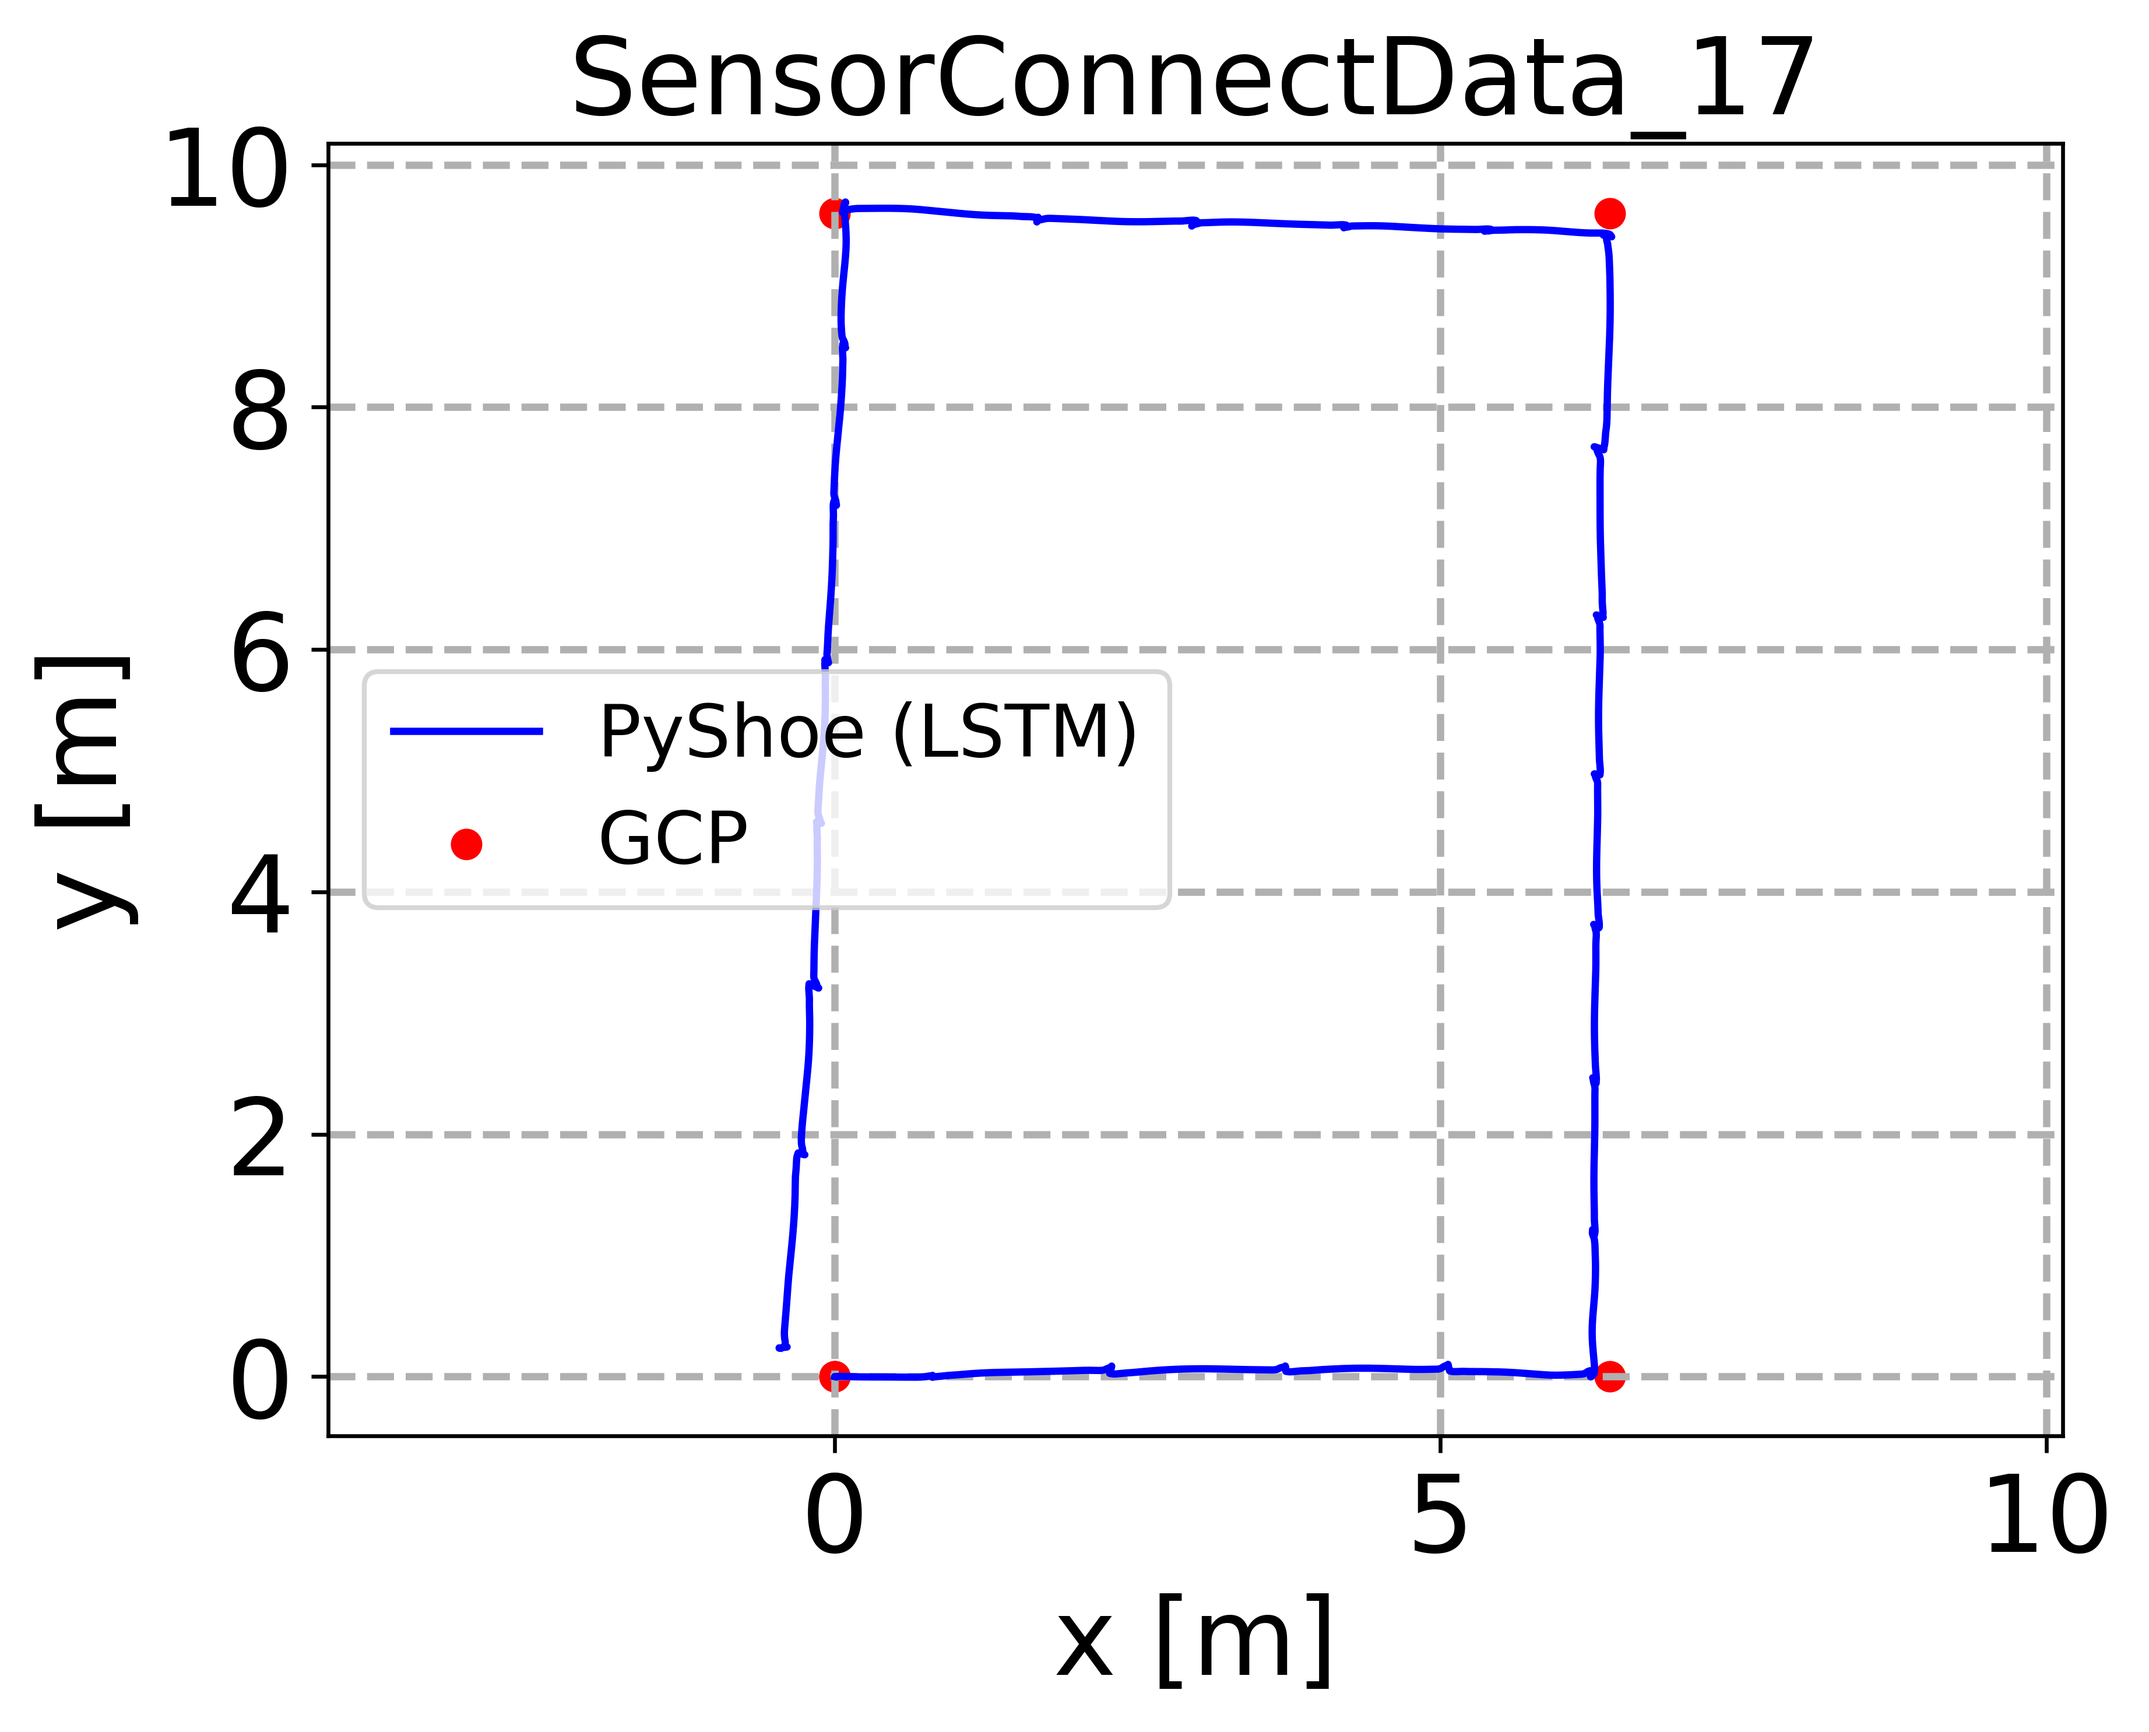
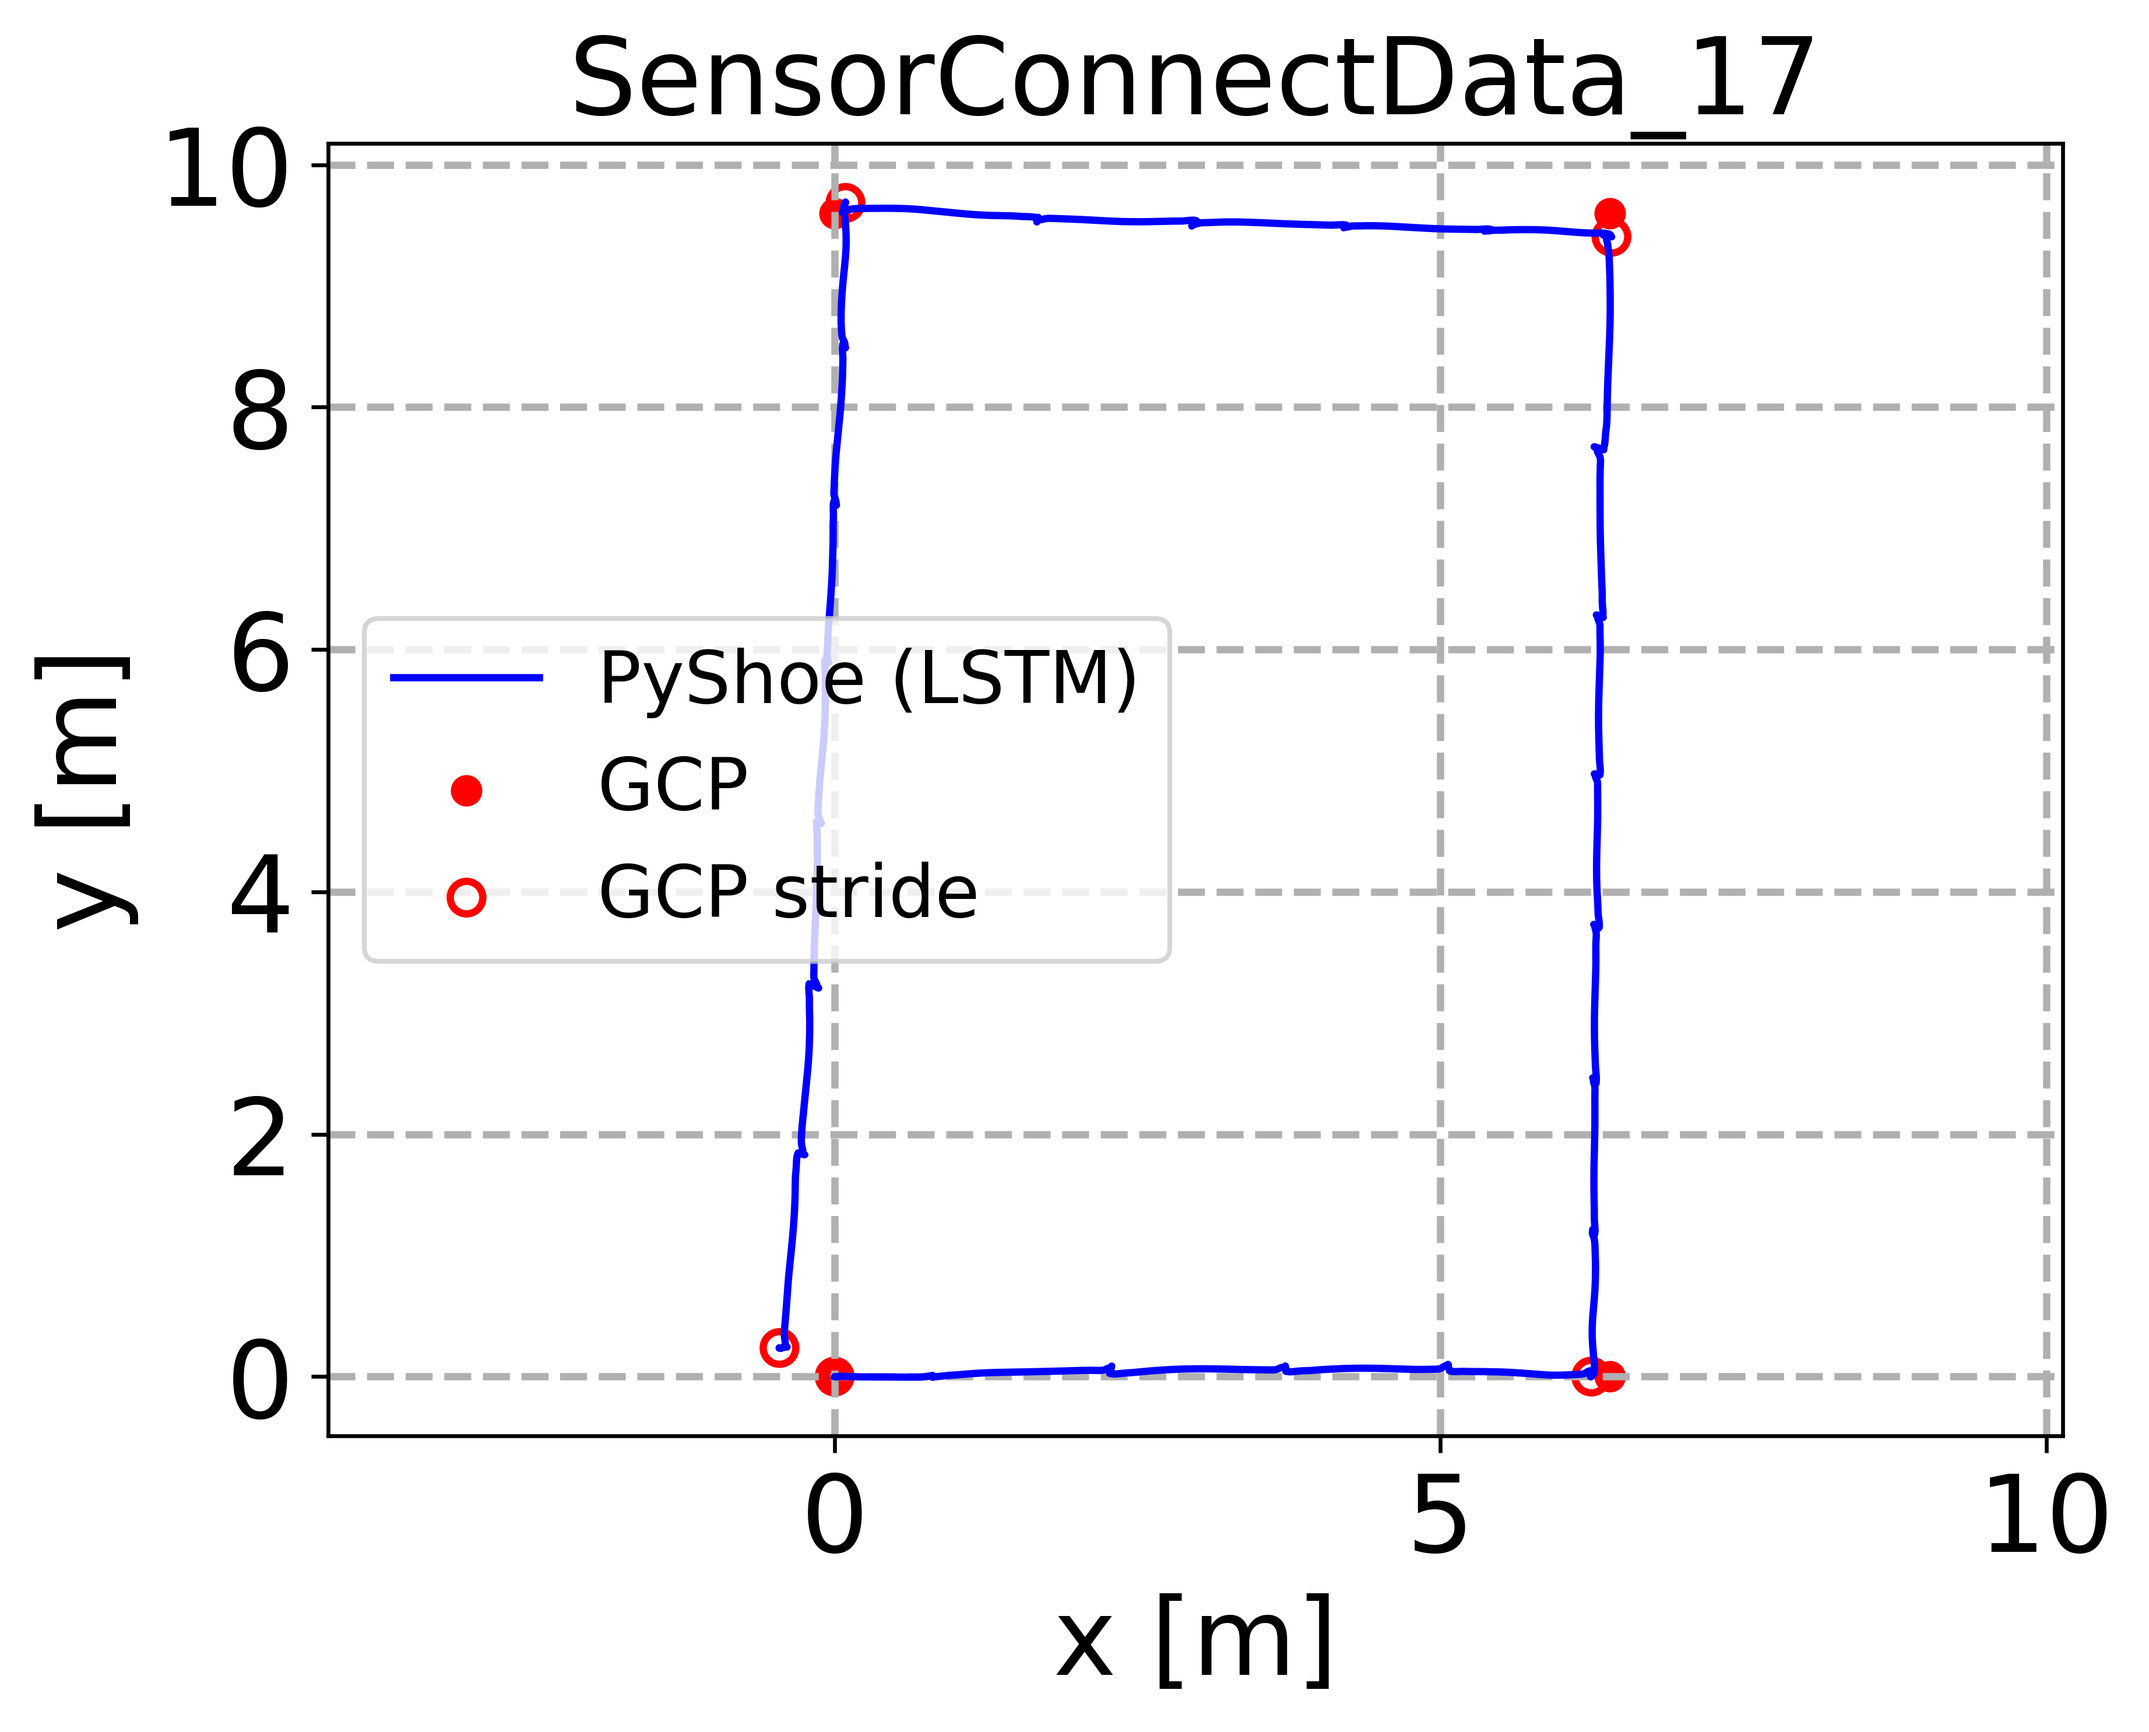
GCP are added

Changed region(s): [[0.156, 0.3406, 0.5614, 0.5574], [0.3431, 0.7742, 0.4055, 0.8051], [0.7174, 0.7742, 0.7486, 0.8051]]

diff --git a/plot_own_sensor_data.py b/plot_own_sensor_data.py
@@ -195,6 +195,8 @@ for file in sensor_data_files:
     if GCP_data['GCP_exist_and_correct'].item() and n == numberOfStrides:
         plt.scatter(GCP[:,0], GCP[:,1], color='r', s=30, label="GCP")
     plt.plot(aligned_trajectory_INS[:,0], aligned_trajectory_INS[:,1], linewidth = 1.5, color='b', label=legend[-1])
+    plt.scatter(aligned_trajectory_SHS[GCP_stride_numbers,0], aligned_trajectory_SHS[GCP_stride_numbers,1], color='r', s=45, 
+                    marker='o', facecolor='none', linewidths=1.5, label="GCP stride")
     plt.legend(fontsize=15); plt.xlabel('x [m]', fontsize=22); plt.ylabel('y [m]', fontsize=22)
     plt.title(f'{base_filename}', fontsize=22)
     plt.tick_params(labelsize=22)

diff --git a/README.md b/README.md
@@ -127,8 +127,24 @@ pip install pandas==1.1.5
 
 <img src="results/figs/own/SensorConnectData_22_SHS.png" alt="trajectory obtained with robust ZUPT detector (LSTM) aided (Error-State Kalman Filter based) foot-mounted INS" width=%100 height=auto>
 
+<h4>Experiment 23</h4>
 
-<p align="justify">At this point, before checking the performance of LSTM ZUPT detector on VICON training data, for all five experiments, we examined other ZUPT detectors' results to see if they are able to detect missed steps. Qualitately speaking, for missed ZUPT phase regions, other detectors such as SHOE and ARED were able to produce 1s in some cases. This observation gave us the idea of using ARED, SHOE or other ZUPT detectors as supplementary detectors to include the missed stride into the set of strides detected by LSTM ZUPT detector. However, we did not use this idea on own collected data. Instead, we first visited VICON training dataset to see how LSTM ZUPT detector performed there. Then, in case of missed strides in some experiments, mentioned supplementary ZUPT detectors can be used for including missed strides. The ultimate goal is to extract a gait-driven system (stride & heading system) from VICON training dataset, which is a sampling-frequency driven system (sample-wise INS), by generating displacement and heading change values at each stride. Subsequently, produced displacement and heading change values will be used to train deep neural network or a time-series predictor that acts as an end-to-end modern INS, which will function as learned inertial odometry and eventually aid the traditional INS (i.e., robust ZUPT aided Error-State Kalman Filter).</p>
+<img src="results/figs/own/SensorConnectData_23.png" alt="trajectory obtained with robust ZUPT detector (LSTM) aided (Error-State Kalman Filter based) foot-mounted INS" width=%100 height=auto>
+
+<img src="results/figs/own/SensorConnectData_23_ZV_LSTM_filtered.png" alt="ZV labels produced with robust ZUPT (LSTM filtered) detector" width=%100 height=auto>
+
+<img src="results/figs/own/SensorConnectData_23_SHS.png" alt="trajectory obtained with robust ZUPT detector (LSTM) aided (Error-State Kalman Filter based) foot-mounted INS" width=%100 height=auto>
+
+<h4>Experiment 24</h4>
+
+<img src="results/figs/own/SensorConnectData_24.png" alt="trajectory obtained with robust ZUPT detector (LSTM) aided (Error-State Kalman Filter based) foot-mounted INS" width=%100 height=auto>
+
+<img src="results/figs/own/SensorConnectData_24_ZV_LSTM_filtered.png" alt="ZV labels produced with robust ZUPT (LSTM filtered) detector" width=%100 height=auto>
+
+<img src="results/figs/own/SensorConnectData_24_SHS.png" alt="trajectory obtained with robust ZUPT detector (LSTM) aided (Error-State Kalman Filter based) foot-mounted INS" width=%100 height=auto>
+
+
+<p align="justify">At this point, before checking the performance of LSTM ZV detector on VICON training data, we examined other ZV detectors' VICON results to see if they are able to detect missed steps. Qualitately speaking, for missed ZUPT phase regions, other detectors such as SHOE and ARED were able to produce 1s in some cases. This observation gave us the idea of using ARED, SHOE or other ZUPT detectors as supplementary detectors to include the missed stride into the set of strides detected by LSTM ZUPT detector. However, we did not use this idea on own collected data. Instead, we first visited VICON training dataset to see how LSTM ZUPT detector performed there. Then, in case of missed strides in some experiments, mentioned supplementary ZUPT detectors can be used for including missed strides. The ultimate goal is to extract a gait-driven system (stride & heading system) from VICON training dataset, which is a sampling-frequency driven system (sample-wise INS), by generating displacement and heading change values at each stride. Subsequently, produced displacement and heading change values will be used to train a data-driven SHS that acts as an end-to-end modern INS, which will function as learned inertial odometry and eventually aid the traditional dead reckoning system (i.e., robust ZUPT aided Error-State Kalman Filter).</p>
 
 <h3>VICON Training Manual Annotation (Corrections)</h3>
 <p align="justify">Here, some troublesome experiments are shown to understand stride detection problems. The optimal ZUPT detectors are run (e.g., SHOE for experiment 4, ARED for experiment 6) with the corresponding optimal threshold values (optimal values are supplied by Wagstaff <i>et. al.</i>) in the structure of the mat files for VICON room experiments of PyShoe dataset).</p>
